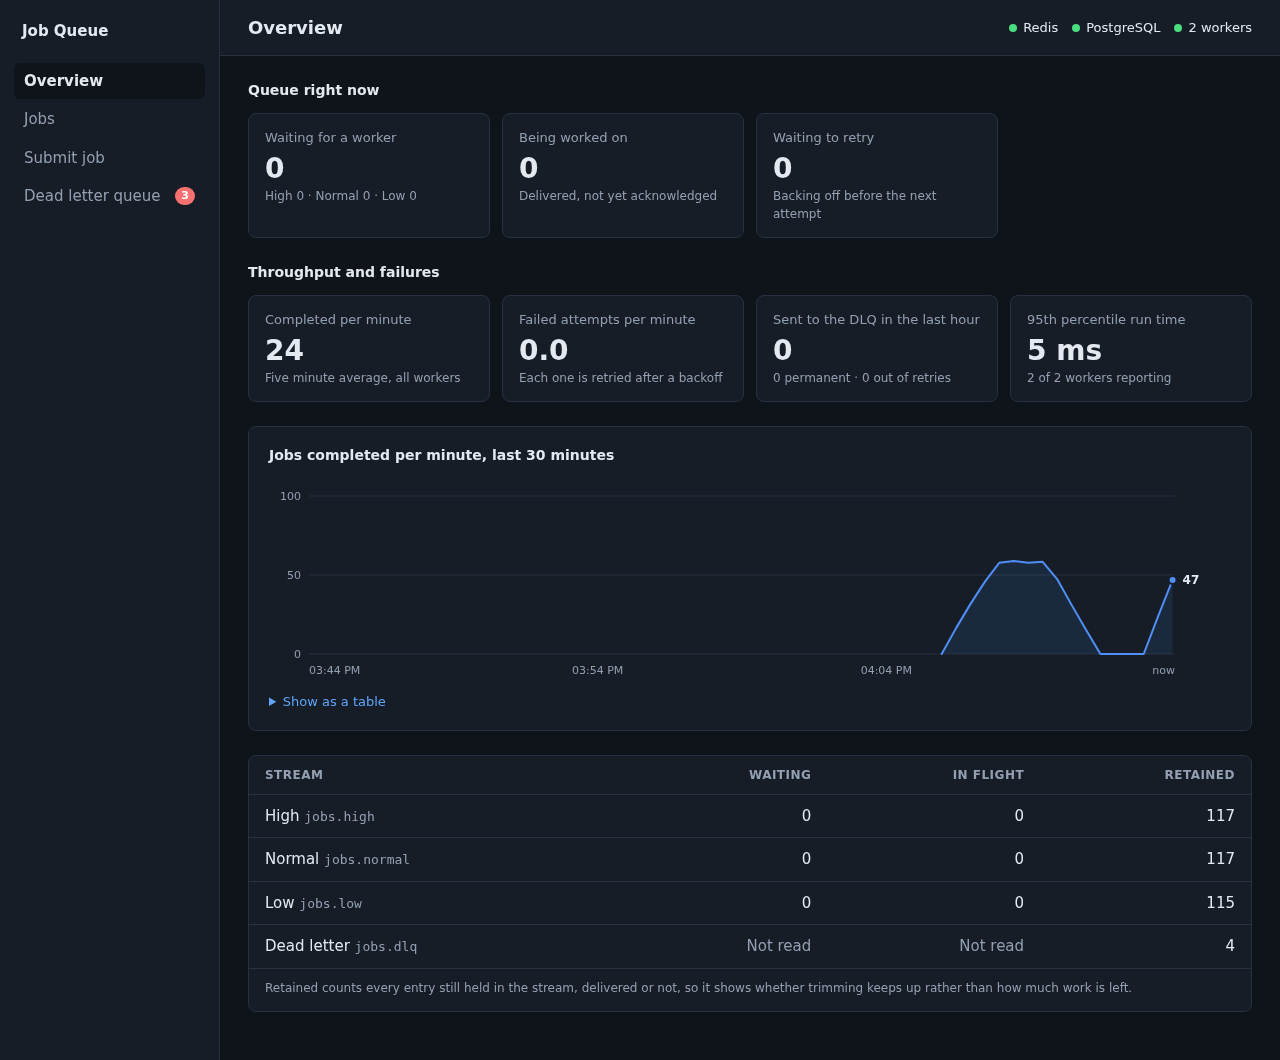
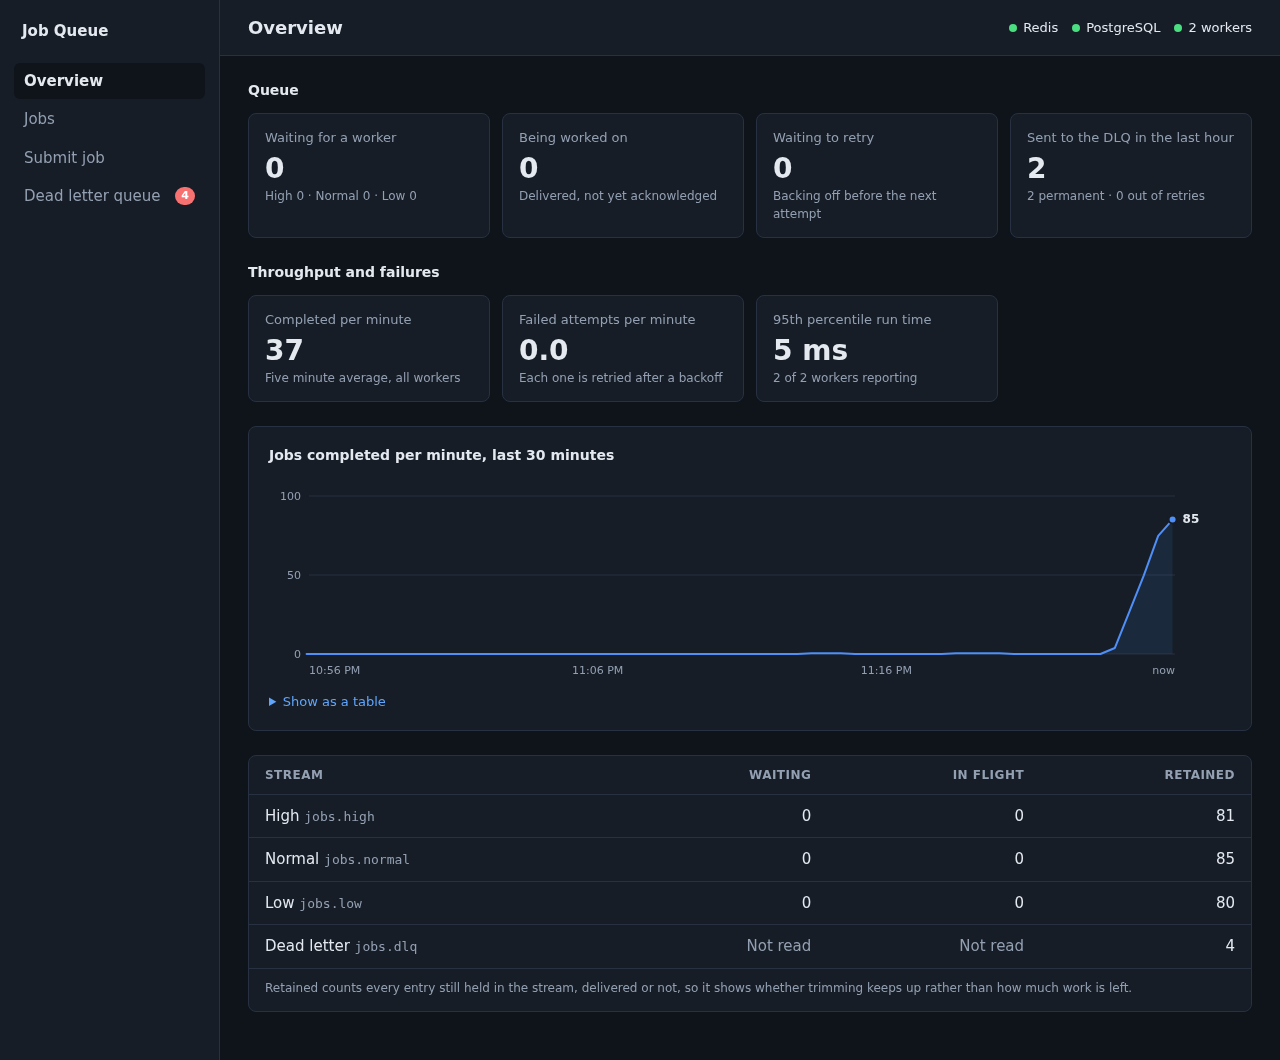
Give each page its own tab title and log the browser review
Every page used to share one browser tab title, so several open tabs and the history list all read the same. Each page now names itself, and the number of dead jobs leads the title when there are any, since a tab title is often the only part of the dashboard in view. The build log records what clicking through the dashboard in a real browser found, and corrects the earlier suggestion for the dead letter counter, which could not have worked with free text job types. The overview screenshots and README are updated for the new tile layout.

diff --git a/frontend/src/App.tsx b/frontend/src/App.tsx
@@ -1,3 +1,5 @@
+import { useEffect } from "react";
+
 import HealthIndicator from "./components/HealthIndicator";
 import Layout, { type NavItem } from "./components/Layout";
 import { useDeadCount } from "./hooks/useDeadCount";
@@ -29,6 +31,14 @@ export default function App() {
   const navPath = jobId ? "/jobs" : path;
   const active = NAV.find((item) => item.path === navPath) ?? NAV[0];
   const title = jobId ? `Job ${jobId.slice(0, 8)}` : active.label;
+
+  // Every page used to share one tab title, so several open tabs and the
+  // browser history all read "Job Queue Dashboard". The dead count leads when
+  // there is one, since a tab title is often all of the dashboard in view.
+  useEffect(() => {
+    const prefix = deadCount ? `(${deadCount} dead) ` : "";
+    document.title = `${prefix}${title} \u00b7 Job Queue`;
+  }, [title, deadCount]);
 
   let page;
   if (jobId) {

diff --git a/DEVLOG.md b/DEVLOG.md
@@ -418,3 +418,43 @@ change. The same applies to the first completion and failure of each job type.
 The fix is in the worker, not the dashboard: create each expected label set at
 startup with `.labels(...)` so every series starts at zero. Left for a backend
 change rather than worked around in PromQL.
+
+---
+
+## Review pass: using it in a browser
+
+Every earlier check was a build, a type check, a screenshot or a curl. This
+pass clicked through each screen in a real browser against the compose stack,
+which is the first time anything was used the way a person would use it.
+
+- **Dialogs inside table rows did not wrap.** The replay confirmation is
+  rendered in the cell holding its button. The browser draws it in the top
+  layer, but it still inherits the cell's `white-space: nowrap`, so its text
+  ran off behind a horizontal scrollbar. A screenshot of the page could never
+  show this, because the dialog only exists once something is clicked.
+- **A successful submit looked like nothing happened.** The confirmation card
+  sat under the form, below the fold on a laptop. It now appears beside the
+  button, where a rejection already did.
+- **The dashboard had no tests.** Vitest now covers the metrics parser, the
+  submission checks, the time helpers and the DLQ arrival count, and CI runs
+  them before the build.
+- **Each tab now has its own title,** led by the dead job count when there is
+  one, instead of every tab and history entry reading "Job Queue Dashboard".
+
+**Correction to Pass 7.** The known gap there blamed `jobs_dead_total` series
+appearing only on their first increment, and proposed creating each label set
+at worker startup. That fix does not work: `job_type` is free text, so there
+is no fixed set of series to create, and creating one when a job type is first
+seen happens in the same instant as its first increment. Prometheus's own
+answer, created timestamp zero ingestion, needs protobuf scraping, which the
+Python client does not serve. The dashboard now counts dead letter arrivals
+from `dlq_jobs` through the API instead, a timestamped row per arrival, which
+is exact and works without Prometheus. Checked side by side: two fresh
+failures counted as 2 from the table and 0 from `increase()`. The same blind
+spot affects the first completion and failure of each job type in the rate
+tiles, which matters little for a rate over five minutes of steady traffic.
+
+**Gotcha:** after rebuilding the dashboard image, the already open tab kept
+showing the old behaviour. Navigating by hash never reloads the page, so it
+was still running the previous bundle. Not a bug in the dashboard, but worth
+remembering before concluding a fix did not work.

diff --git a/README.md b/README.md
@@ -571,9 +571,9 @@ real compose stack with two workers.
 ![Overview](docs/screenshots/overview.png)
 
 **Overview.** Jobs waiting, in flight and backing off, read live from Redis
-through the API's metrics, then completions and failed attempts per minute,
-dead letter arrivals and the 95th percentile run time from Prometheus, with a
-30 minute throughput chart. If Prometheus is down the queue figures still work
+through the API's metrics, and dead letter arrivals in the last hour counted
+from the database. Then completions and failed attempts per minute and the
+95th percentile run time from Prometheus, with a 30 minute throughput chart. If Prometheus is down the queue figures still work
 and the page says why the rates are missing.
 
 ![Jobs](docs/screenshots/jobs.png)
